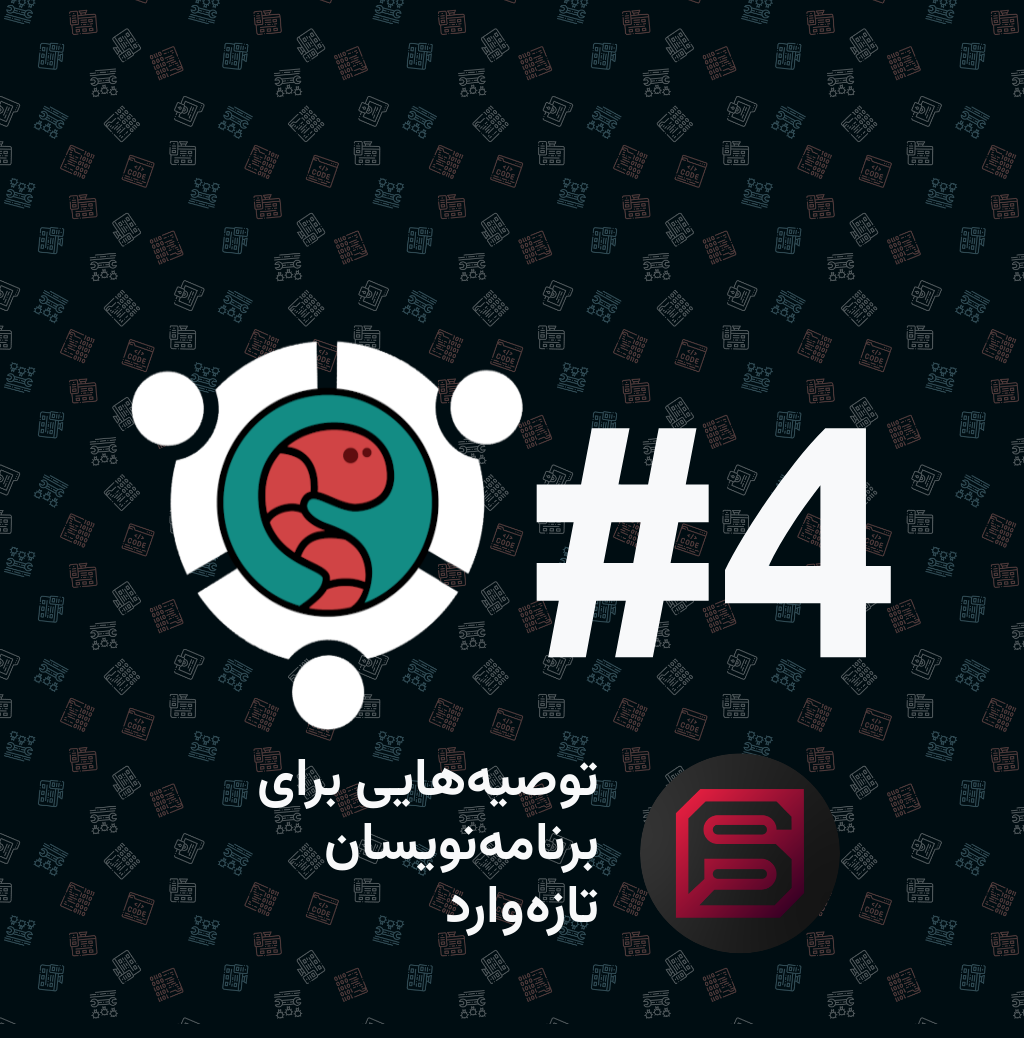
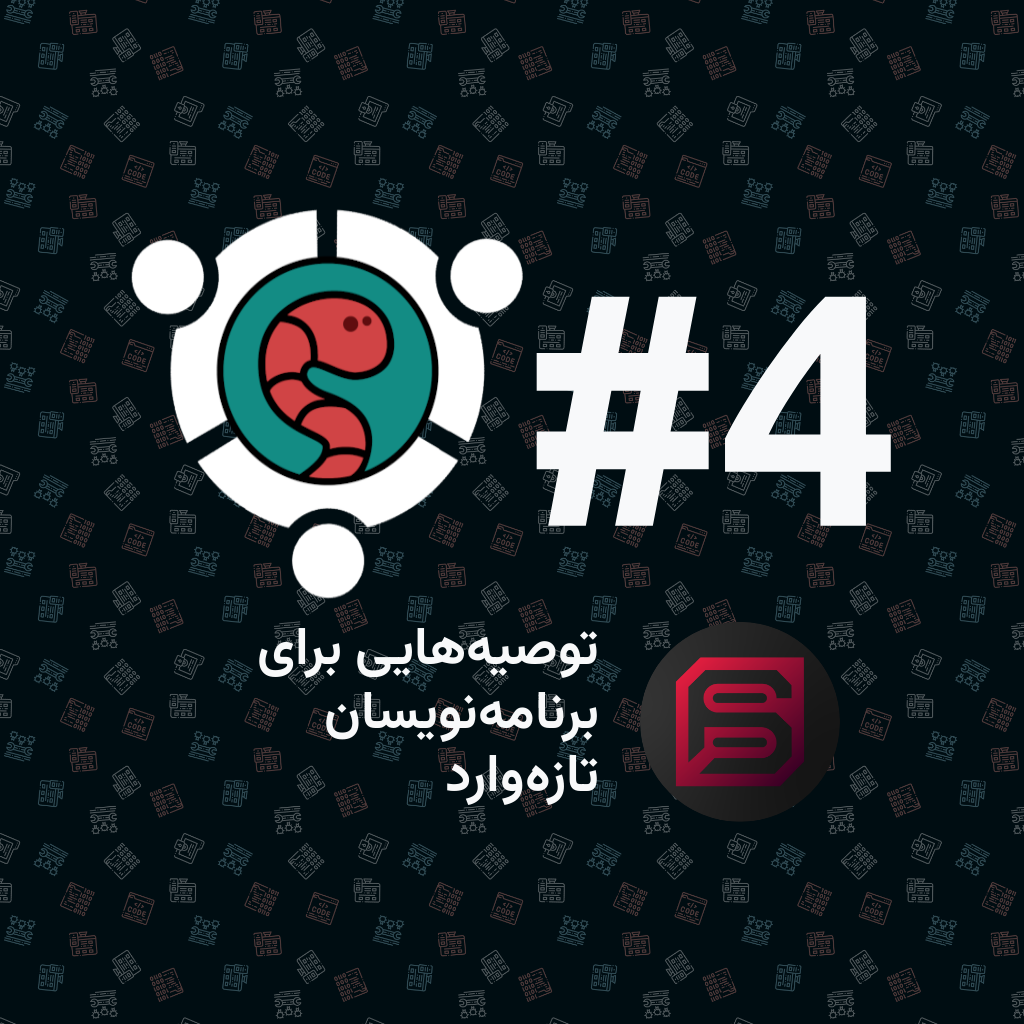
deploy: d5ddffe79711c9167b0bd4f244fbe414d1dcaa17

diff --git a/preview.css b/preview.css
@@ -4,9 +4,10 @@ html, body{
 }
 
 .container-fluid{
-    position: static;
+    position: absolute;
     top: 50%;
-    transform: translateY(50%);
+    left:0;
+    transform: translateY(-50%);
 }
 
 .profile{
